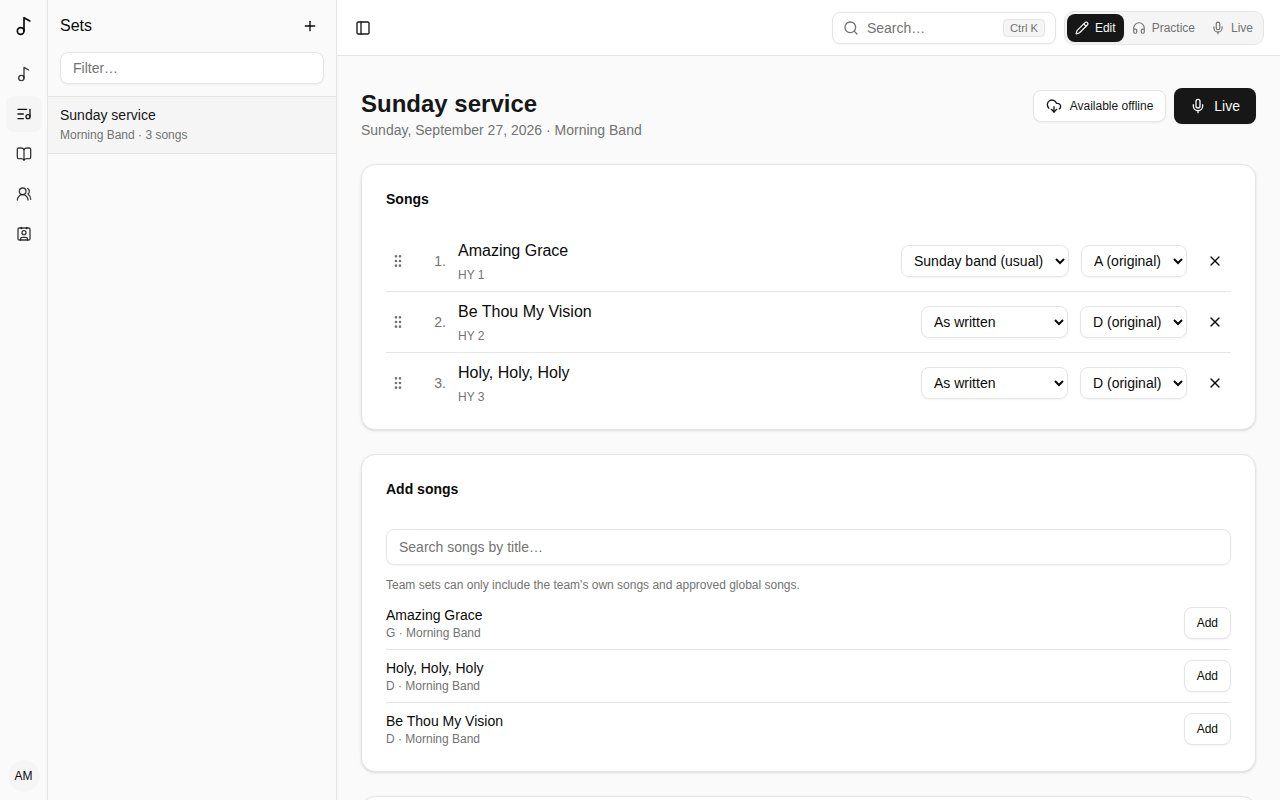
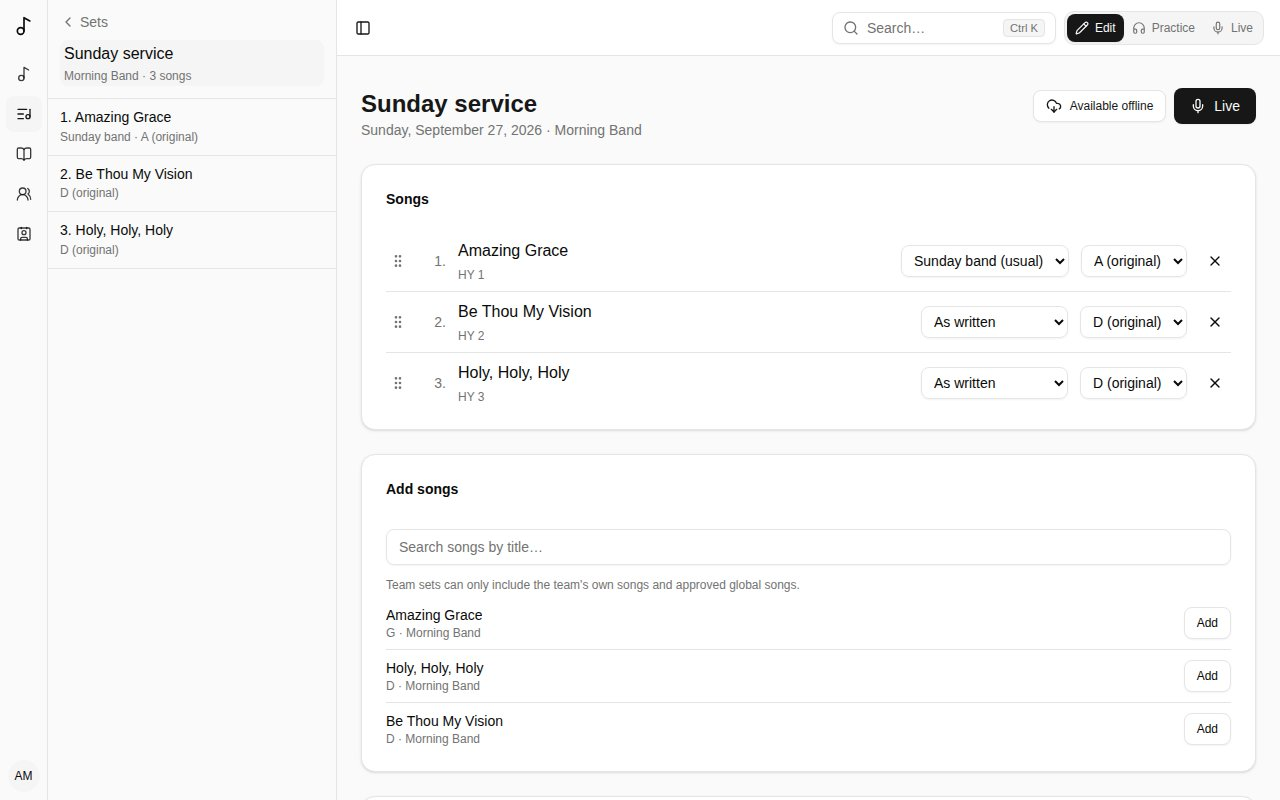
Sidebar: a set's songs in the Sets panel
In a set - its page, or one of its songs - the Sets panel goes one level
deeper: a back button to the sets, the set's name (its overview) with its
team and number of songs, then its songs in order, each with the version
and key it's played in; the one you're on is marked. Back lists the sets
again without leaving the page, and opening a set (the same one too)
goes back in. The songs are fetched again when the set's page reloads its
own, and come from the device's copy offline.

Docs (en/fr): Getting started. e2e: web/sidebar goes into a set, song to
song, and back; the sets suite looks for a song's title and key in the
page, not also in the panel.

Refs #80

Claude-Session: https://claude.ai/code/session_01XvbKp5w1xAahmXxF5Cbbw1

Changed region(s): [[0.0312, 0.0312, 0.1562, 0.25], [0.0312, 0.2812, 0.1562, 0.3438], [0.0625, 0.0, 0.0938, 0.0312]]

diff --git a/apps/web/src/components/nested-sidebar.tsx b/apps/web/src/components/nested-sidebar.tsx
@@ -1,8 +1,9 @@
-import type { PeopleOverview, SetlistSummary, SongbookSummary, SongVersionSummary, TeamSummary } from "@songverse/core";
+import { keptSetDetail, onlineOrKept, transposeKey, type PeopleOverview, type SetlistDetail, type SetlistSummary, type SongbookSummary, type SongVersionSummary, type TeamSummary } from "@songverse/core";
 import { Link, useRouterState } from "@tanstack/react-router";
 import {
   ArrowLeft,
   BookOpen,
+  ChevronLeft,
   ClipboardCheck,
   Contact,
   Database,
@@ -29,7 +30,8 @@ import { apiClient } from "#/lib/api-client";
 import { sizedAvatarUrl } from "#/lib/avatar-url";
 import { initials } from "#/lib/initials";
 import type { AppSession } from "#/lib/server-auth";
-import { setlistTitle } from "#/lib/setlists";
+import { deviceStorage } from "#/lib/offline-data";
+import { setlistTitle, setOwnerLabel, transposeLabel } from "#/lib/setlists";
 import { smartListSearch, useSmartLists } from "#/lib/smart-lists";
 import { cn } from "#/lib/utils";
 
@@ -314,6 +316,11 @@ function LibraryPanel({ title, pathname }: { title: string; pathname: string }) 
 function SetsPanel({ title, pathname, setlists }: { title: string; pathname: string; setlists: SetlistSummary[] }) {
   const { t, i18n } = useTranslation();
   const [filter, setFilter] = useState("");
+  // In a set (its page, or one of its songs): the panel lists its songs; back to the sets from there.
+  const openSet = /^\/sets\/(?!new$)([^/]+)/.exec(pathname)?.[1] ?? null;
+  const [listingSets, setListingSets] = useState(false);
+  useEffect(() => setListingSets(false), [pathname]);
+  if (openSet && !listingSets) return <SetSongsPanel setId={openSet} pathname={pathname} sets={title} onBack={() => setListingSets(true)} />;
   const shown = setlists.filter((set) => fold(setlistTitle(set, t, i18n.language)).includes(fold(filter.trim())));
   return (
     <>
@@ -334,6 +341,77 @@ function SetsPanel({ title, pathname, setlists }: { title: string; pathname: str
           </PanelEntry>
         ))}
       </PanelList>
+    </>
+  );
+}
+
+/** One set's songs, in order (issue #80): its overview, then each song, the one you're on marked. */
+function SetSongsPanel({ setId, pathname, sets, onBack }: { setId: string; pathname: string; sets: string; onBack: () => void }) {
+  const { t, i18n } = useTranslation();
+  const [set, setSet] = useState<SetlistDetail | null>(null);
+  const [failed, setFailed] = useState(false);
+  // Fetched again when the set's page reloads its own (a song added, moved, removed…).
+  const reloaded = useRouterState({ select: (s) => s.matches.find((match) => match.routeId.includes("$setlistId"))?.updatedAt });
+  useEffect(() => {
+    let cancelled = false;
+    onlineOrKept(
+      () => apiClient.getSetlist(setId),
+      () => keptSetDetail(deviceStorage(), setId),
+    )
+      .then((detail) => {
+        if (cancelled) return;
+        setSet(detail);
+        setFailed(!detail);
+      })
+      .catch(() => !cancelled && setFailed(true));
+    return () => {
+      cancelled = true;
+    };
+  }, [setId, reloaded]);
+
+  return (
+    <>
+      <div className="flex flex-col gap-2 border-b p-3">
+        <button type="button" onClick={onBack} className="flex items-center gap-1 self-start rounded-md text-sm text-muted-foreground hover:text-foreground" data-testid="sidebar-panel-back">
+          <ChevronLeft className="size-4" />
+          <span data-testid="sidebar-panel-title">{sets}</span>
+        </button>
+        {set ? (
+          <Link
+            to="/sets/$setlistId"
+            params={{ setlistId: set.id }}
+            activeOptions={{ exact: true }}
+            className="flex flex-col gap-0.5 rounded-md px-1 py-0.5 hover:bg-sidebar-accent data-[status=active]:bg-sidebar-accent"
+          >
+            <span className="truncate text-base font-medium text-foreground">{setlistTitle(set, t, i18n.language)}</span>
+            <span className="truncate text-xs text-muted-foreground">{[setOwnerLabel(set, t), t("nav.songCount", { count: set.items.length })].join(" · ")}</span>
+          </Link>
+        ) : null}
+      </div>
+      {failed ? (
+        <p className="p-3 text-sm text-muted-foreground">{t("nav.listUnavailable")}</p>
+      ) : set ? (
+        <PanelList empty={t("sets.emptySet")}>
+          {set.items.map((item, index) => {
+            const song = item.song;
+            const baseKey = song?.key && item.arrangement ? (transposeKey(song.key, item.arrangement.transposeSteps) ?? song.key) : (song?.key ?? null);
+            return (
+              <PanelEntry
+                key={item.id}
+                active={pathname === `/sets/${set.id}/songs/${item.id}`}
+                title={`${index + 1}. ${song?.title ?? t("sets.hiddenSong")}`}
+                detail={song ? [item.arrangement?.name, transposeLabel(baseKey, item.transposeSteps, t)].filter(Boolean).join(" · ") : null}
+              >
+                {(className, content) => (
+                  <Link to="/sets/$setlistId/songs/$itemId" params={{ setlistId: set.id, itemId: item.id }} className={className}>
+                    {content}
+                  </Link>
+                )}
+              </PanelEntry>
+            );
+          })}
+        </PanelList>
+      ) : null}
     </>
   );
 }

diff --git a/apps/docs/src/content/docs/fr/getting-started.md b/apps/docs/src/content/docs/fr/getting-started.md
@@ -27,7 +27,7 @@ La barre latérale à gauche mène partout :
 - **Équipes** - les groupes dont vous faites partie. Voir [Équipes](/fr/teams/).
 - **Personnes** - les personnes avec qui vous partagez des chants. Voir [Personnes](/fr/people/).
 
-Sur un ordinateur ou une tablette, la barre latérale a deux parties : une colonne d'icônes pour ces sections et, à côté, un panneau qui liste le contenu de la section où vous êtes - vos chants, vos listes, vos recueils, vos équipes ou vos personnes - avec une case **Filtrer…** en haut. Ce que vous consultez y est marqué : le chant, la liste ou le recueil suivant est à un clic. Le panneau de la bibliothèque propose aussi vos [listes intelligentes](/fr/library/) et **Artistes**, et **+** commence un nouveau chant, une nouvelle liste, un nouveau recueil ou une nouvelle équipe.
+Sur un ordinateur ou une tablette, la barre latérale a deux parties : une colonne d'icônes pour ces sections et, à côté, un panneau qui liste le contenu de la section où vous êtes - vos chants, vos listes, vos recueils, vos équipes ou vos personnes - avec une case **Filtrer…** en haut. Ce que vous consultez y est marqué : le chant, la liste ou le recueil suivant est à un clic. Le panneau de la bibliothèque propose aussi vos [listes intelligentes](/fr/library/) et **Artistes**, et **+** commence un nouveau chant, une nouvelle liste, un nouveau recueil ou une nouvelle équipe. Dans une liste de chants, le panneau montre ses chants, dans l'ordre, avec la version et la tonalité de chacun : passez de l'un à l'autre, ou à la liste elle-même depuis son nom ; **Listes de chants**, en haut, montre à nouveau vos listes.
 
 ![La page d'une liste de chants : la colonne d'icônes à gauche, et le panneau qui liste vos listes](../../../assets/screenshots/fr/set.jpg)
 

diff --git a/apps/docs/src/content/docs/getting-started.md b/apps/docs/src/content/docs/getting-started.md
@@ -27,7 +27,7 @@ The sidebar on the left takes you everywhere:
 - **Teams** - the bands and groups you're part of. See [Teams](/teams/).
 - **People** - the people you share songs with. See [People](/people/).
 
-On a computer or a tablet, the sidebar has two parts: a rail of icons for these sections, and beside it a panel listing what's in the section you're in - your songs, your sets, your songbooks, your teams or your people - with a **Filter…** box on top. What you're viewing is marked, so the next song, set or songbook is one click away. The library's panel also has your [smart lists](/library/) and **Artists**, and **+** starts a new song, set, songbook or team.
+On a computer or a tablet, the sidebar has two parts: a rail of icons for these sections, and beside it a panel listing what's in the section you're in - your songs, your sets, your songbooks, your teams or your people - with a **Filter…** box on top. What you're viewing is marked, so the next song, set or songbook is one click away. The library's panel also has your [smart lists](/library/) and **Artists**, and **+** starts a new song, set, songbook or team. In a set, the panel lists that set's songs, in order, with the version and key each is played in: go from one to the next, or to the set itself from its name; **Sets**, at the top, lists your sets again.
 
 ![A set's page: the rail on the left, and the panel listing your sets](../../assets/screenshots/en/set.jpg)
 
